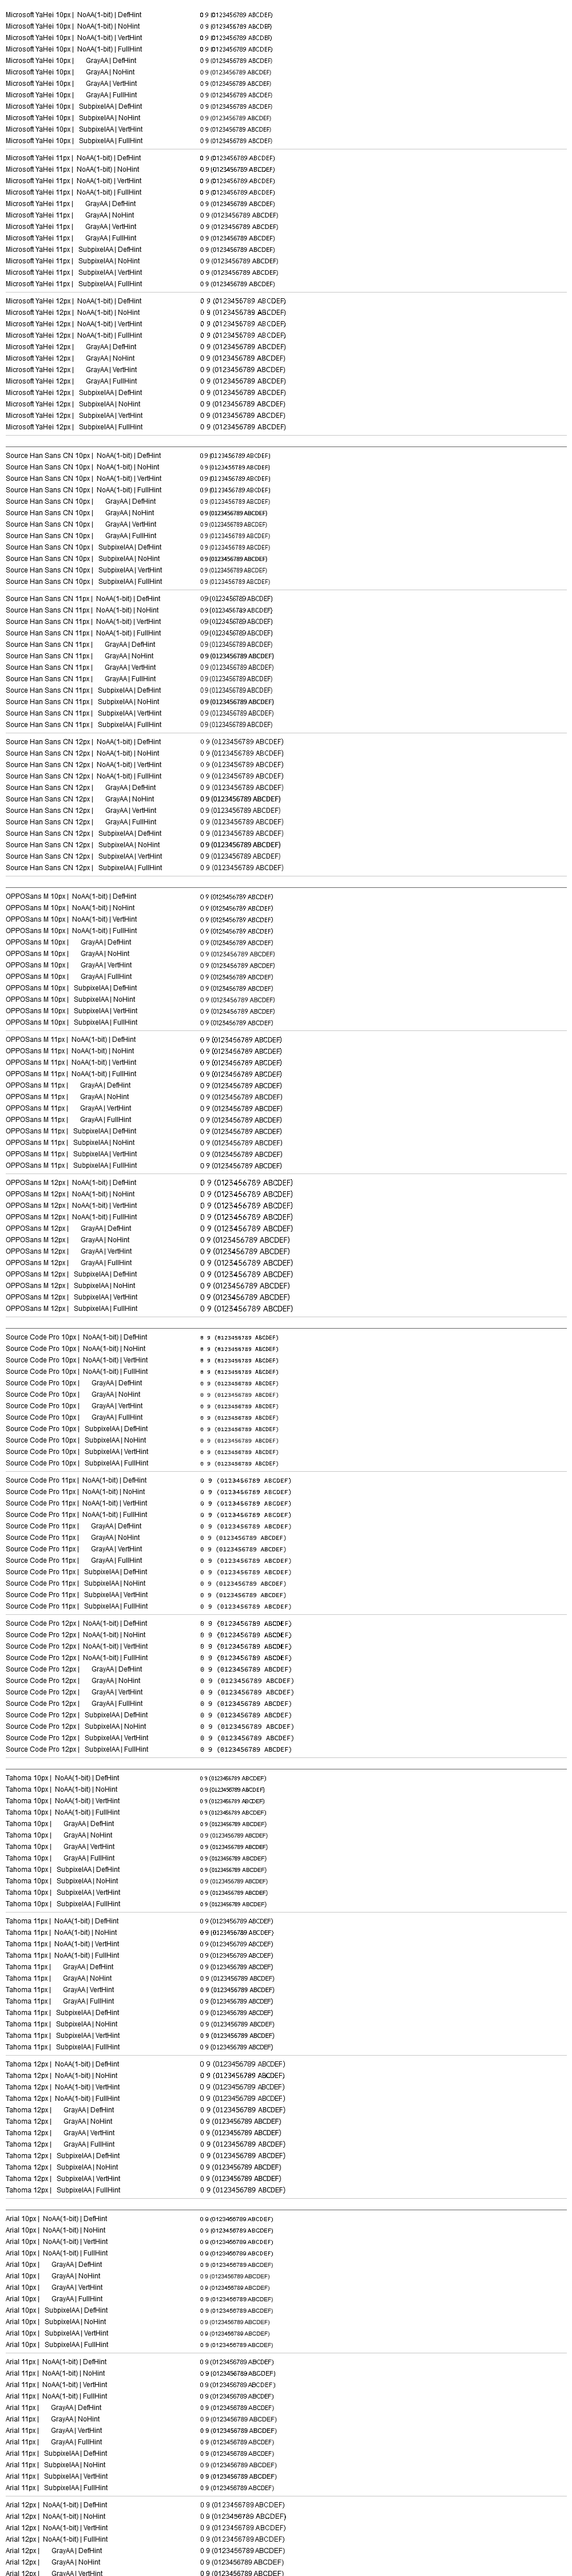
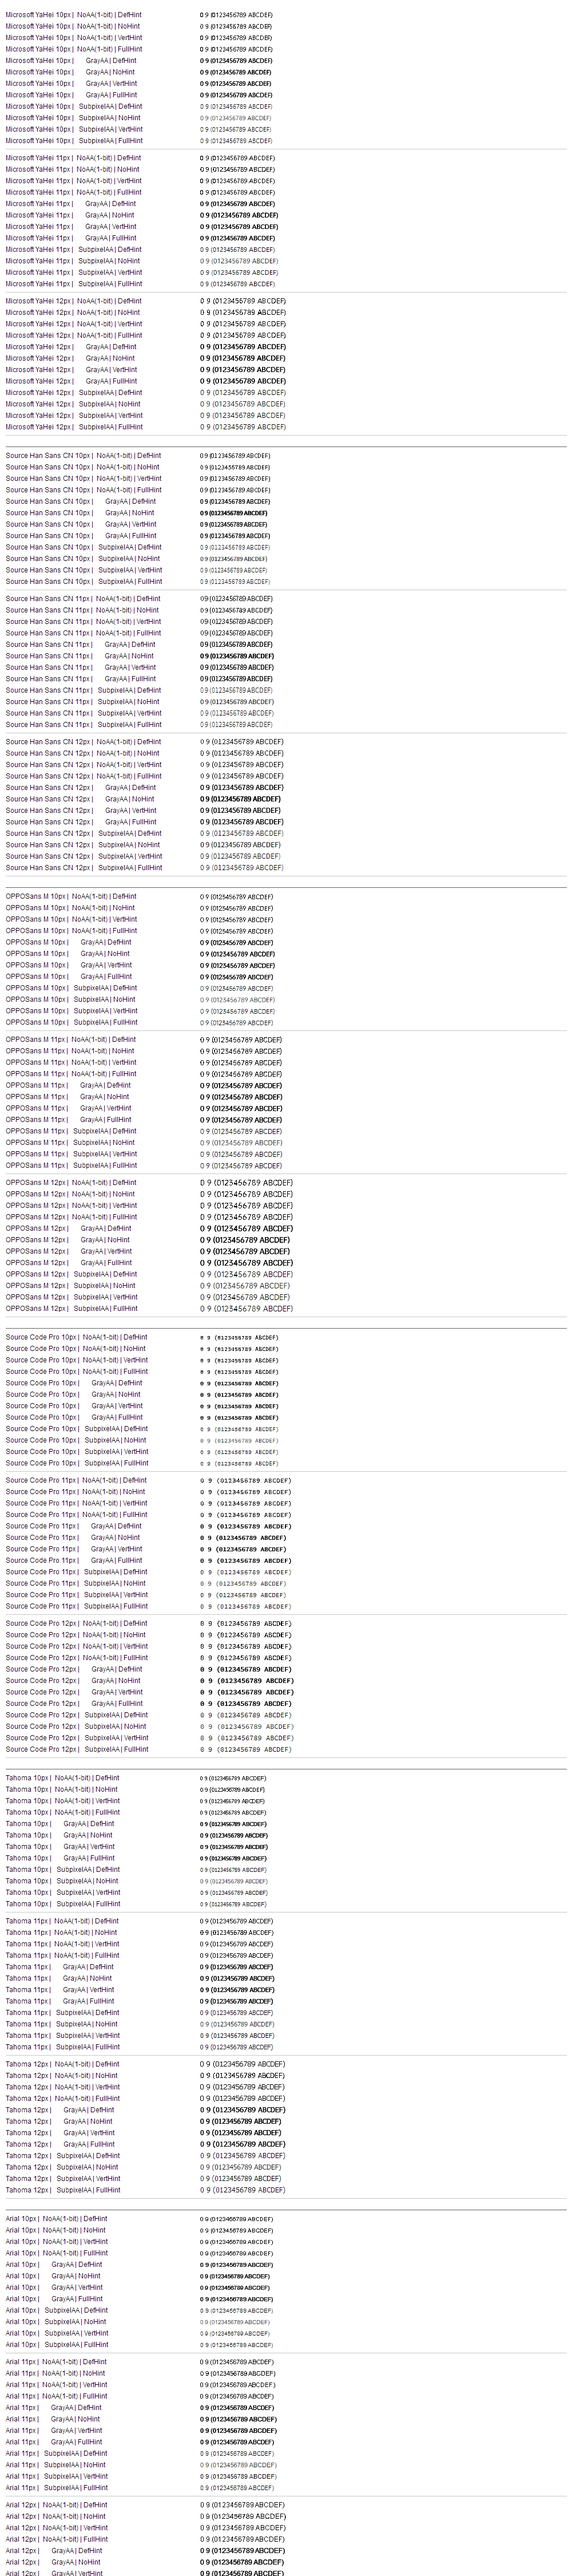
继续测试

diff --git a/test_font.cpp b/test_font.cpp
@@ -1,4 +1,5 @@
 #include <QApplication>
+#include <QPixmap>
 #include <QImage>
 #include <QPainter>
 #include <QFont>
@@ -6,14 +7,32 @@
 #include <QString>
 #include <QStringList>
 #include <QDebug>
+#include <QProcess>
 #include <cstdlib>
 
 int main(int argc, char *argv[]) {
     bool useFreetype = false;
+    bool isChild = false;
+
     for (int i = 1; i < argc; ++i) {
         if (QString(argv[i]) == "freetype") {
             useFreetype = true;
+            isChild = true;
+        } else if (QString(argv[i]) == "directwrite") {
+            useFreetype = false;
+            isChild = true;
         }
+    }
+
+    if (!isChild) {
+        qDebug() << "Spawning directwrite and freetype processes...";
+        QProcess p1, p2;
+        p1.start(argv[0], QStringList() << "directwrite");
+        p1.waitForFinished();
+        p2.start(argv[0], QStringList() << "freetype");
+        p2.waitForFinished();
+        qDebug() << "Done generating both images.";
+        return 0;
     }
 
     if (useFreetype) {
@@ -28,7 +47,7 @@ int main(int argc, char *argv[]) {
     QFontDatabase::addApplicationFont("PXView/fonts/SourceCodePro-Medium.ttf");
 
     // We'll generate a very tall image to fit all combinations
-    QImage img(1000, 4500, QImage::Format_ARGB32);
+    QPixmap img(1000, 4500);
     img.fill(Qt::white);
     QPainter p(&img);
 
@@ -89,8 +108,21 @@ int main(int argc, char *argv[]) {
                     p.drawText(10, y, desc);
 
                     // Draw actual text with target font
-                    p.setFont(f);
-                    p.drawText(350, y, text);
+                    if (aaMode == 1) {
+                        // To force true Grayscale AA on Windows, we draw to an ARGB32 QImage first,
+                        // which forces Qt's raster engine (no subpixel AA).
+                        QImage tmp(600, 30, QImage::Format_ARGB32);
+                        tmp.fill(Qt::transparent);
+                        QPainter tp(&tmp);
+                        tp.setRenderHint(QPainter::TextAntialiasing, true);
+                        tp.setFont(f);
+                        tp.setPen(Qt::black);
+                        tp.drawText(0, 20, text);
+                        p.drawImage(350, y - 20, tmp);
+                    } else {
+                        p.setFont(f);
+                        p.drawText(350, y, text);
+                    }
                     y += 20;
                 }
             }
